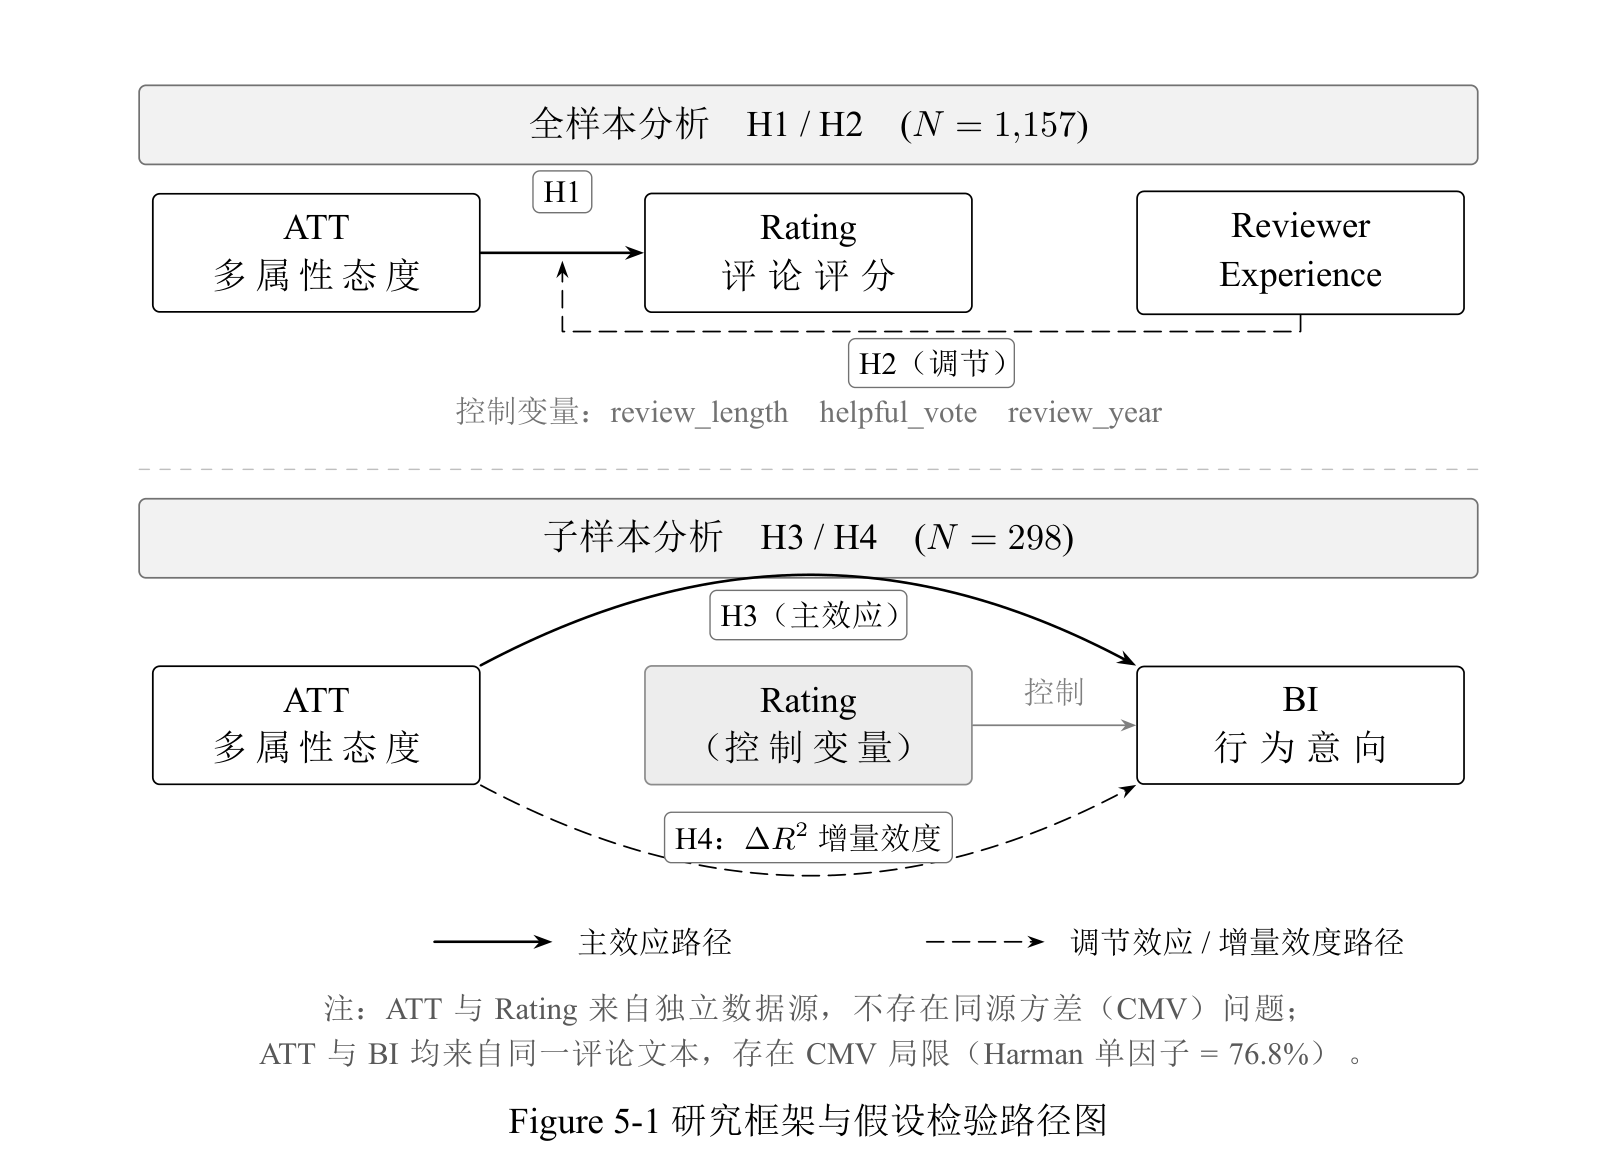
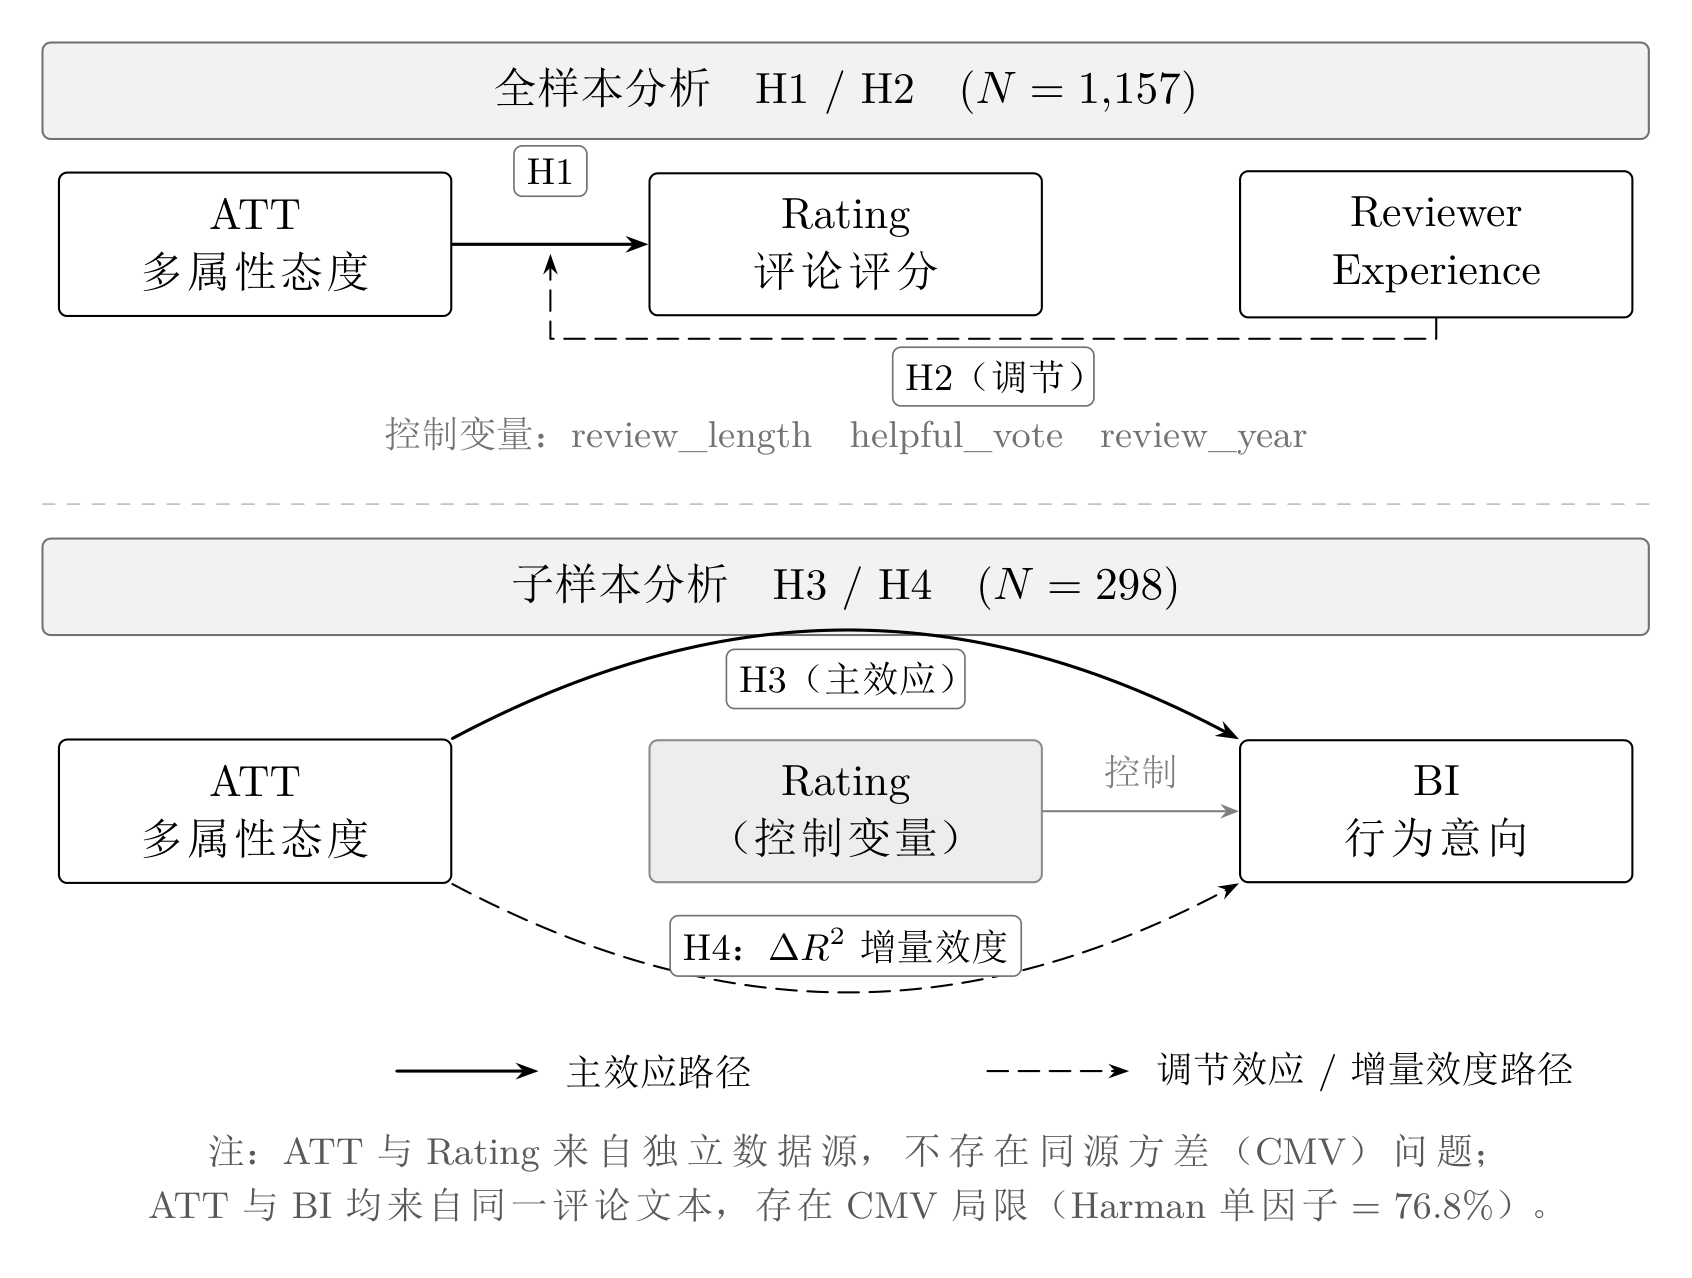
Use latest fig5-1: recompile from thesis TikZ source at 300 DPI

diff --git a/latex_new/figures/fig5_1_standalone.tex b/latex_new/figures/fig5_1_standalone.tex
@@ -1,0 +1,125 @@
+\documentclass[tikz,border=10pt]{standalone}
+\usepackage{tikz}
+\usetikzlibrary{shapes.geometric, arrows.meta, positioning, calc, fit, backgrounds, decorations.pathreplacing}
+\usepackage{xeCJK}
+\usepackage{amsmath}
+
+\setCJKmainfont{SimSun}
+\setCJKsansfont{Microsoft YaHei}
+
+\begin{document}
+\begin{tikzpicture}[
+  line cap  = round,
+  line join = round,
+  varbox/.style = {
+    rectangle, rounded corners = 2pt,
+    draw = black, line width = 0.5pt,
+    fill = white,
+    minimum width  = 3.2cm,
+    minimum height = 1.10cm,
+    align = center,
+    text width     = 2.9cm,
+    inner sep      = 6pt,
+    font = \fontsize{10.5pt}{14pt}\selectfont,
+  },
+  ctrlbox/.style = {
+    varbox,
+    fill = black!7,
+    draw = black!45,
+  },
+  modbox/.style = {
+    rectangle, rounded corners = 2pt,
+    draw = black!55, line width = 0.5pt,
+    fill = black!5,
+    minimum height = 0.78cm,
+    inner sep      = 6pt,
+    align = center,
+    font = \fontsize{10.5pt}{14pt}\selectfont,
+  },
+  hbox/.style = {
+    rectangle, rounded corners = 2pt,
+    draw = black!55, line width = 0.4pt,
+    fill = white,
+    inner sep = 3pt,
+    font = \fontsize{9pt}{12pt}\selectfont,
+  },
+  mainpath/.style = {
+    ->, >= {Stealth[length=5.5pt, width=4pt]},
+    line width = 0.75pt, black,
+  },
+  modpath/.style = {
+    ->, >= {Stealth[length=5pt, width=3.5pt]},
+    line width = 0.5pt, black,
+    dashed, dash pattern = on 5pt off 2.5pt,
+  },
+  ctrlpath/.style = {
+    ->, >= {Stealth[length=4.5pt, width=3.5pt]},
+    line width = 0.5pt, black!50,
+  },
+]
+
+\node[modbox, minimum width = 13.6cm] at (0, 1.30cm)
+  {全样本分析\quad H1 / H2\quad ($N = 1{,}157$)};
+
+\node[varbox] (ATT1) at (-5.0cm, 0) {ATT\\多属性态度};
+\node[varbox] (RAT1) at ( 0,     0) {Rating\\评论评分};
+\node[varbox] (EXP1) at ( 5.0cm, 0) {Reviewer\\Experience};
+
+\draw[mainpath] (ATT1.east) -- (RAT1.west);
+\node[hbox] at (-2.50cm, 0.62cm) {H1};
+
+\draw[modpath]
+  (EXP1.south)
+  -- ( 5.0cm, -0.80cm)
+  -- (-2.50cm, -0.80cm)
+  -- (-2.50cm, -0.08cm);
+\node[hbox] at (1.25cm, -1.12cm) {H2（调节）};
+
+\node[align=center,
+      font=\fontsize{9pt}{13pt}\selectfont,
+      text=black!55]
+  at (0, -1.62cm)
+  {控制变量：review\_length\quad helpful\_vote\quad review\_year};
+
+\draw[black!25, line width=0.4pt, dashed]
+  (-6.8cm, -2.20cm) -- (6.8cm, -2.20cm);
+
+\node[modbox, minimum width = 13.6cm] at (0, -2.90cm)
+  {子样本分析\quad H3 / H4\quad ($N = 298$)};
+
+\node[varbox]  (ATT2) at (-5.0cm, -4.80cm) {ATT\\多属性态度};
+\node[ctrlbox] (RAT2) at ( 0,     -4.80cm) {Rating\\（控制变量）};
+\node[varbox]  (BI2)  at ( 5.0cm, -4.80cm) {BI\\行为意向};
+
+\draw[mainpath]
+  (ATT2.north east) to[out=28, in=152] (BI2.north west);
+\node[hbox] at (0, -3.68cm) {H3（主效应）};
+
+\draw[ctrlpath] (RAT2.east) -- (BI2.west);
+\node[font=\fontsize{9pt}{12pt}\selectfont, text=black!50]
+  at (2.50cm, -4.46cm) {控制};
+
+\draw[modpath]
+  (ATT2.south east) to[out=-28, in=-152] (BI2.south west);
+\node[hbox] at (0, -5.94cm) {H4：$\Delta R^2$ 增量效度};
+
+\def\LY{-7.00cm}
+
+\draw[mainpath] (-3.8cm, \LY) -- (-2.6cm, \LY);
+\node[right, font=\fontsize{9pt}{12pt}\selectfont]
+  at (-2.5cm, \LY) {主效应路径};
+
+\draw[modpath]  ( 1.2cm, \LY) -- ( 2.4cm, \LY);
+\node[right, font=\fontsize{9pt}{12pt}\selectfont]
+  at ( 2.5cm, \LY) {调节效应 / 增量效度路径};
+
+\node[align=center,
+      font=\fontsize{9pt}{13pt}\selectfont,
+      text=black!65,
+      text width=13.0cm]
+  at (0, -7.90cm)
+  {注：ATT 与 Rating 来自独立数据源，不存在同源方差（CMV）问题；\\
+   ATT 与 BI 均来自同一评论文本，存在 CMV 局限（Harman 单因子 = 76.8\%）。};
+
+\end{tikzpicture}
+\end{document}

diff --git a/README.md b/README.md
@@ -57,7 +57,7 @@ $$\text{ATT} = \sum_{i=1}^{n} b_i \times e_i$$
 
 <div align="center">
 
-![研究框架与假设检验路径图](https://go99further.github.io/consumer-attitude-llm/latex_new/figures/research_framework_final.png)
+![研究框架与假设检验路径图](https://go99further.github.io/consumer-attitude-llm/latex_new/figures/fig5_1_framework.png)
 
 图 1　研究框架与假设检验路径图
 </div>
